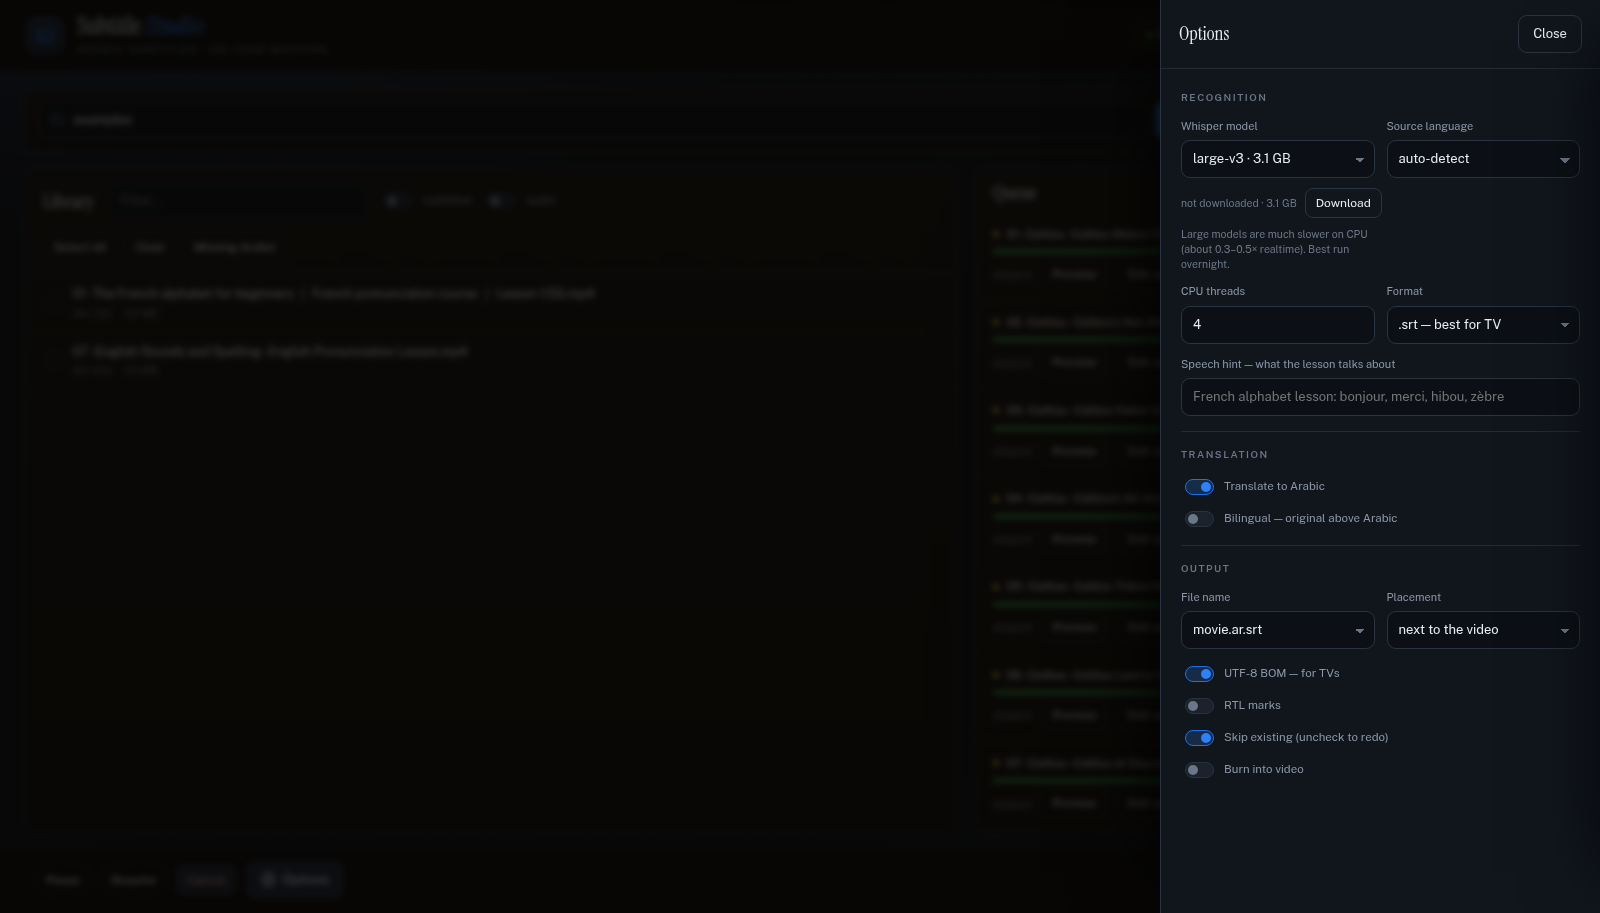
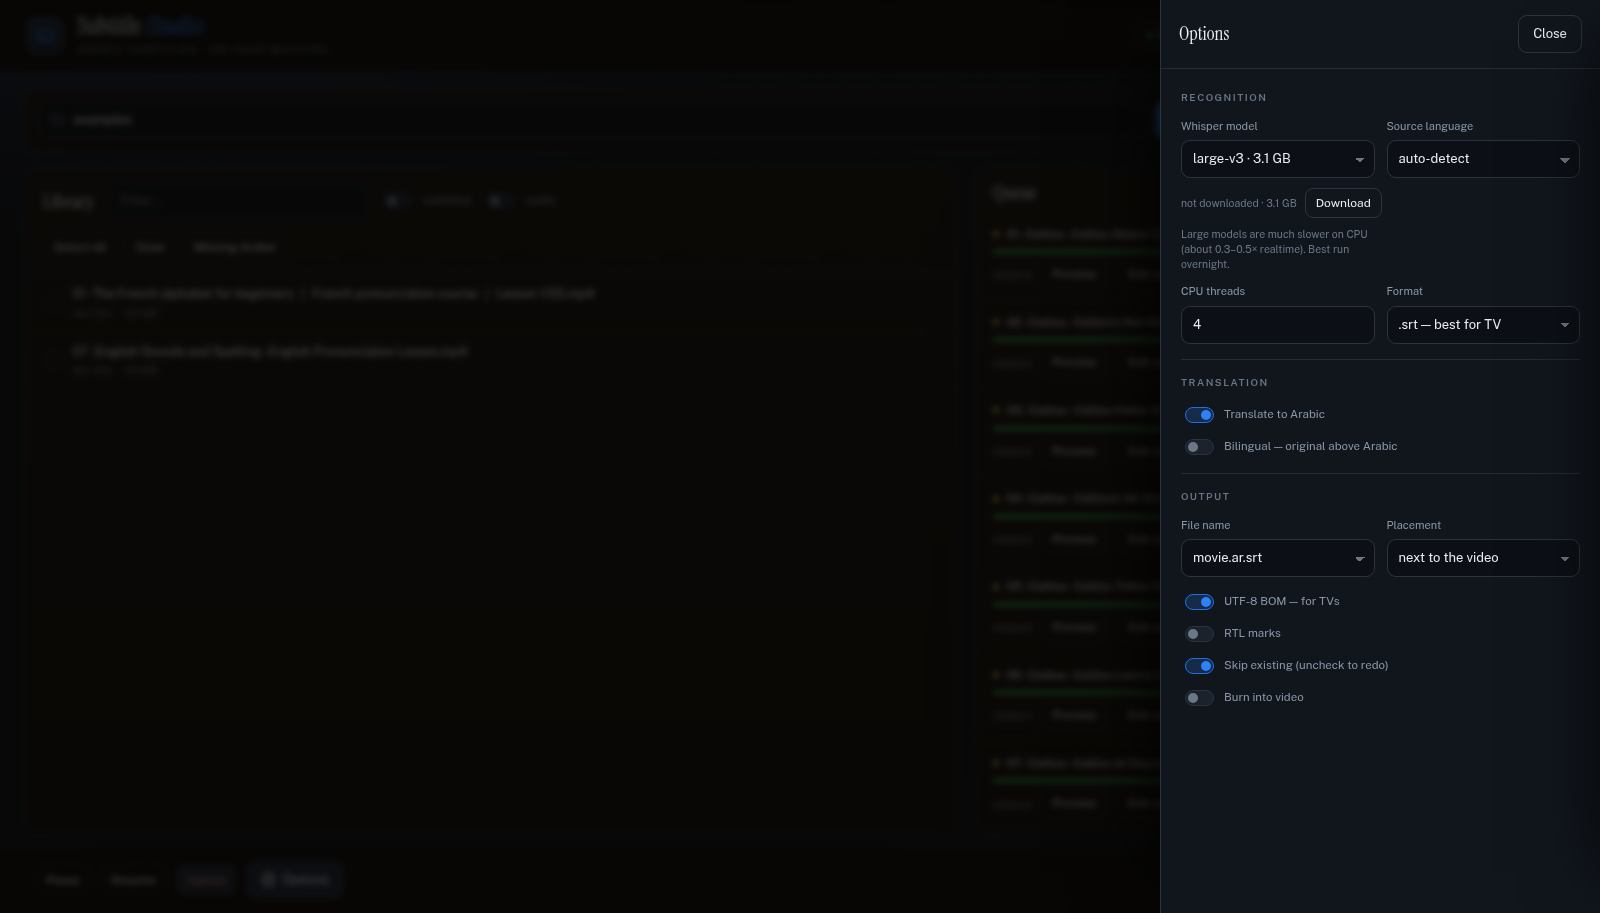
Remove speech-hint option and its backend plumbing
Drops the prompt/hotwords path from transcribe, the job options, the CLI
flag and the UI field. Cue rebuilding no longer depends on it.

Changed region(s): [[0.7188, 0.3987, 0.9375, 0.8587], [0.875, 0.644, 0.9375, 0.7054]]

diff --git a/app/static/index.html b/app/static/index.html
@@ -144,10 +144,6 @@
             <option value="both">both</option>
           </select>
         </div>
-        <div class="field full">
-          <label>Speech hint — what the lesson talks about</label>
-          <input type="text" id="prompt" placeholder="French alphabet lesson: bonjour, merci, hibou, zèbre">
-        </div>
       </div>
     </div>
 

diff --git a/app/static/app.js b/app/static/app.js
@@ -193,7 +193,6 @@ function options() {
     rtl_marks: $("#rtl").checked,
     skip_existing: $("#skip").checked,
     burn_in: $("#burn").checked,
-    prompt: $("#prompt").value,
     threads: parseInt($("#threads").value) || 4,
   };
 }

diff --git a/app/jobs.py b/app/jobs.py
@@ -30,7 +30,6 @@ DEFAULTS = {
     "font_size": 22,
     "glossary": [],
     "keep_foreign": False,
-    "prompt": "",
 }
 
 
@@ -208,14 +207,6 @@ class Worker:
             if int(frac * 100) % 10 == 0:
                 self.store.save()
 
-        # Bias the recogniser towards the lesson vocabulary: the glossary the
-        # user wrote for translation doubles as an ASR hint.
-        glossary = core.parse_glossary(opts.get("glossary"))
-        hotwords = ", ".join(t for t, _ in glossary[:60]) or None
-        prompt = (opts.get("prompt") or "").strip()
-        if not prompt and hotwords:
-            prompt = f"The speaker mentions these words: {hotwords}."
-
         cues, info = core.transcribe(
             video,
             size=opts.get("model", "small"),
@@ -225,8 +216,6 @@ class Worker:
             beam_size=opts.get("beam_size", 5),
             max_chars=opts.get("max_chars", 42),
             on_progress=on_progress,
-            initial_prompt=prompt or None,
-            hotwords=hotwords,
             should_stop=stopped,
         )
         src = (info.language or lang or "en").lower()

diff --git a/cli.py b/cli.py
@@ -29,8 +29,6 @@ def process(video: str, args) -> str:
         models_dir=os.path.join(os.path.dirname(os.path.abspath(__file__)), "models"),
         beam_size=args.beam,
         on_progress=progress,
-        initial_prompt=args.prompt or None,
-        hotwords=", ".join(t for t, _ in core.parse_glossary(args.glossary_text)[:60]) or None,
     )
     print(f"\r  transcribed {len(cues)} segments (lang={info.language}, "
           f"{time.time() - t0:.0f}s)", flush=True)
@@ -95,7 +93,6 @@ def main():
     ap.add_argument("--skip-existing", action="store_true", default=True)
     ap.add_argument("--glossary", default=None,
                     help="file with one term per line ('term' or 'term = translation')")
-    ap.add_argument("--prompt", default="", help="hint about what the lesson says (names, vocabulary)")
     ap.add_argument("--no-keep-foreign", dest="keep_foreign", action="store_false",
                     help="do not protect French words automatically")
     args = ap.parse_args()

diff --git a/app/core.py b/app/core.py
@@ -325,7 +325,6 @@ def cues_from_words(words, *, max_dur: float = 6.0, max_chars: int = 84) -> list
 def transcribe(video: str, *, size: str = "small", language: str | None = None,
                threads: int = 4, models_dir: str = "models",
                beam_size: int = 5, max_chars: int = 42, on_progress=None,
-               initial_prompt: str | None = None, hotwords: str | None = None,
                word_timestamps: bool = True, should_stop=None):
     """Return (cues, info). Cues are sentence-level — display splitting happens
     after translation so the translator always sees complete sentences."""
@@ -337,8 +336,6 @@ def transcribe(video: str, *, size: str = "small", language: str | None = None,
         vad_filter=True,
         vad_parameters={"min_silence_duration_ms": 400},
         condition_on_previous_text=False,
-        initial_prompt=initial_prompt or None,
-        hotwords=hotwords or None,
         word_timestamps=word_timestamps,
     )
 

diff --git a/README.md b/README.md
@@ -50,29 +50,6 @@ video ──► Whisper (ASR) ──► MarianMT (translate) ──► cue split
 - **Splitting**: whole sentences are translated *first*, then split to fit two
   lines — translating fragments produces broken Arabic.
 
-## Speech hinting (words Whisper should expect)
-
-Whisper mishears unfamiliar vocabulary: in an English lesson about French it
-wrote `un ibou` instead of `un hibou`, `un yaut` instead of `un yaourt`.
-
-There is one input for that — a **Speech hint**, a sentence describing what the
-lesson talks about:
-
-`French alphabet lesson: bonjour, merci, hibou, xylophone, zèbre`
-
-Its words are passed to the recogniser as hotwords.
-
-Measured on a French-letter clip:
-
-| | result |
-|---|---|
-| no hint | `d une dent e le f une fête … h un ibou` |
-| with hint | `d, une dent, e, le, f, une fête … h, un hibou` |
-
-Because hinting makes Whisper merge segments into 20-second blocks, cues are
-rebuilt from **word-level timestamps** — each cue is capped at ~6 s or a
-sentence end, so the letters stay individually synced.
-
 ## Preview
 
 Click a finished file in the queue (or its **Preview** button) to open a player
